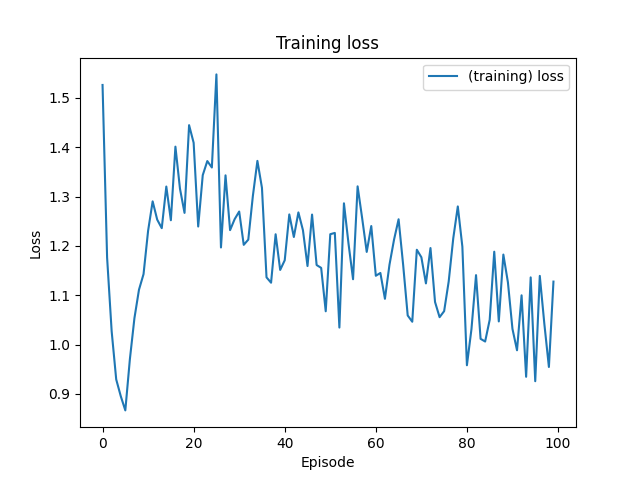
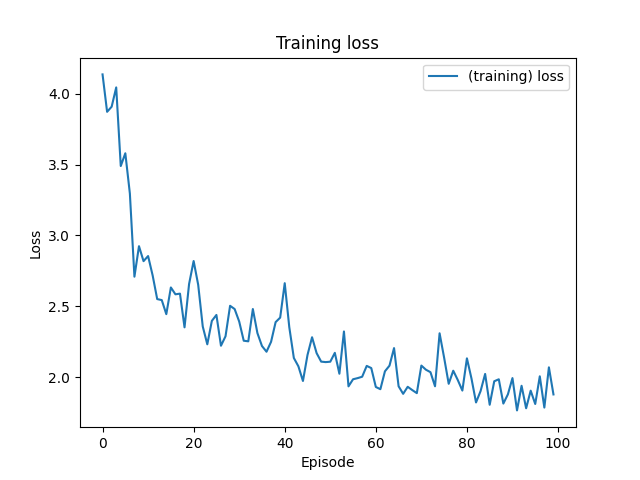
Remove epsilon

diff --git a/src/parameters.py b/src/parameters.py
@@ -8,13 +8,13 @@ REPLAY_BUFFER_SIZE = 64
 
 # MCTS parameters
 EPISODES = 100
-SIMULATION_TIME_OUT = 0.4  # s
+SIMULATION_TIME_OUT = 0.2  # s
 UCT_C = 1  # "theoretically 1"
 
 # Simulated World
 GAME_TYPE = Game.Hex
 LEDGE_BOARD = (0, 1, 0, 1, 0, 1, 0, 1, 0, 0, 2, 0, 0, 1, 1, 1)  # (0, 2, 0, 1, 0, 1, 1, 1, 0, 0, 0, 0, 1, 0, 1, 0, 1)
-SIZE = 3 if GAME_TYPE == Game.Hex else len(LEDGE_BOARD)  # 3 <= k <= 10
+SIZE = 6 if GAME_TYPE == Game.Hex else len(LEDGE_BOARD)  # 3 <= k <= 10
 STATE_SIZE = 1 + (SIZE ** 2 if GAME_TYPE == Game.Hex else SIZE)
 NUMBER_OF_ACTIONS = SIZE ** 2 if GAME_TYPE == Game.Hex else int((SIZE ** 2 - SIZE) / 2) + 1
 VISUALIZE_GAMES = False
@@ -27,8 +27,8 @@ ANET_LEARNING_RATE = None
 ANET_ACTIVATION_FUNCTION = relu  # linear, relu, sigmoid, or tanh
 ANET_OPTIMIZER = Adam  # SGD, Adagrad, Adam, or RMSprop
 ANET_BATCH_SIZE = 64
-ANET_DIMENSIONS = (STATE_SIZE, 10, 10, NUMBER_OF_ACTIONS)
+ANET_DIMENSIONS = (STATE_SIZE, 37, 37, NUMBER_OF_ACTIONS)
 
 # TOPP parameters
 ANETS_TO_BE_CACHED = 11
-NUMBER_OF_GAMES = 10
+NUMBER_OF_GAMES = 1

diff --git a/src/ANET.py b/src/ANET.py
@@ -54,7 +54,7 @@ class ANET:
 
     def __build_model(self) -> Sequential:
         """Builds a neural network model with the provided dimensions and learning rate"""
-        self.__name = 'Reidar'
+        self.__name = 'Training model'
         input_dim, *hidden_dims, output_dim = parameters.ANET_DIMENSIONS
 
         model = Sequential()
@@ -79,9 +79,6 @@ class ANET:
     def load(self, model_name: str) -> None:
         self.__name = 'Agent-e' + model_name.replace('.h5', '')
         self.__model = tf.keras.models.load_model(f'models/{model_name}')
-
-    def set_epsilon(self, epsilon: float):
-        self.__epsilon = epsilon
 
     def choose_action(self, state: Tuple[int, ...], valid_actions: Tuple[int, ...]) -> int:
         """Epsilon-greedy action selection function."""

diff --git a/src/reinforcement_learner.py b/src/reinforcement_learner.py
@@ -99,8 +99,6 @@ class ReinforcementLearner:
 
     @staticmethod
     def run_one_game(player_1: ANET, player_2: ANET, visualize=False) -> int:
-        player_1.set_epsilon(0.0)
-        player_2.set_epsilon(0.0)
         world = SimulatedWorldFactory.get_simulated_world()
         current_state = world.reset()
 
@@ -113,7 +111,7 @@ class ReinforcementLearner:
             legal_actions = world.get_legal_actions()
 
             player = player_1 if player_id == 1 else player_2
-            action = player.choose_action(current_state, legal_actions)
+            action = player.choose_greedy(current_state, legal_actions)
 
             current_state, winner = world.step(action)
 
